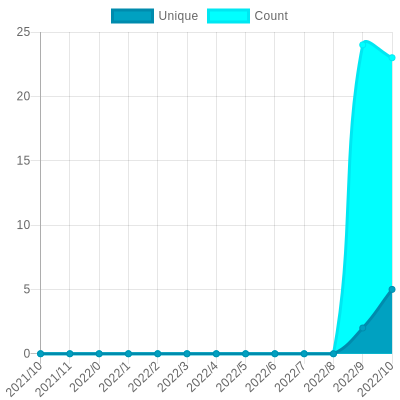
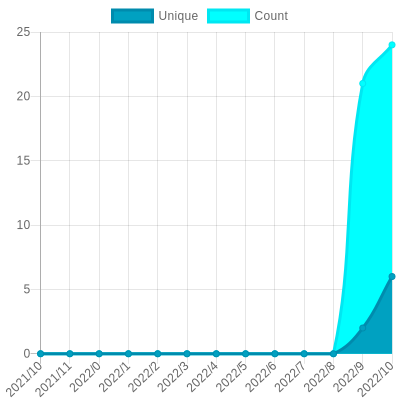
Update views

diff --git a/readme/418481793/year.md b/readme/418481793/year.md
@@ -23,10 +23,10 @@
 			<code>2021/11/1</code>
 		</td>
 		<td>
-			<code>5</code>
+			<code>6</code>
 		</td>
 		<td>
-			<code>23</code>
+			<code>24</code>
 		</td>
 	</tr>
 	<tr>
@@ -37,7 +37,7 @@
 			<code>2</code>
 		</td>
 		<td>
-			<code>24</code>
+			<code>21</code>
 		</td>
 	</tr>
 	<tr>
@@ -164,7 +164,7 @@
 </table>
 
 </details>
-<small><i>Last updated on 2021/11/12 6:13 AM UTC</i></small>
+<small><i>Last updated on 2021/11/12 12:17 PM UTC</i></small>
 
 ## ✂Copy and 📋 Paste
 ### SVG Badge

diff --git a/README.md b/README.md
@@ -53,7 +53,7 @@ The project created and maintained by [gayanvoice](https://github.com/gayanvoice
 	</tr>
 </table>
 
-<small><i>Last updated on 2021/11/12 6:13 AM UTC</i></small>
+<small><i>Last updated on 2021/11/12 12:18 PM UTC</i></small>
 
 ## ✂Copy and 📋 Paste
 ### Total Views Badge

diff --git a/readme/420011260/year.md b/readme/420011260/year.md
@@ -164,7 +164,7 @@
 </table>
 
 </details>
-<small><i>Last updated on 2021/11/12 6:13 AM UTC</i></small>
+<small><i>Last updated on 2021/11/12 12:18 PM UTC</i></small>
 
 ## ✂Copy and 📋 Paste
 ### SVG Badge
